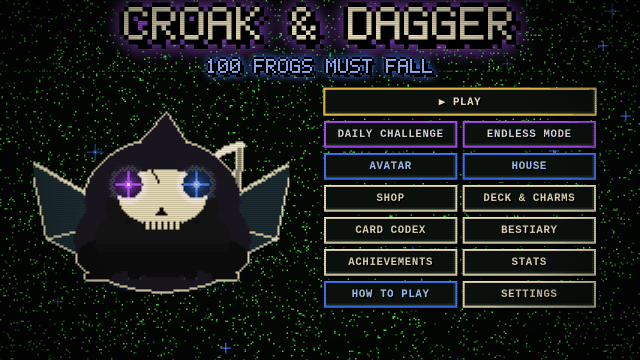
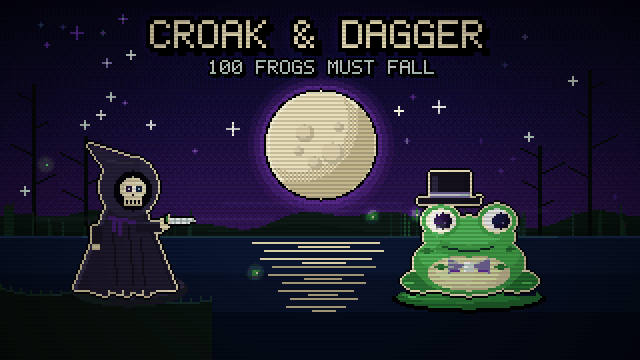
Animated pixel key art for Croak & Dagger; studio-wide copy made game-neutral
- New canvas key art (hooded hero vs. top-hatted frog under a full moon) replaces
  gameplay screenshots on the home featured panel, home game card and game page hero.
  Still frame by default; animates on hover, keyboard focus or tap (first tap wakes,
  second tap follows the link); prefers-reduced-motion shows one static awake frame.
- Game og.png and cover.png regenerated from the key art.
- Home/about/meta/OG copy now describes Lost Aura Games generally (retro-style
  pixel-art browser games) without Croak & Dagger-specific details.
- README documents the optional 'art' field in games.js.

diff --git a/assets/js/keyart-croak.js b/assets/js/keyart-croak.js
@@ -1,0 +1,168 @@
+/* Croak & Dagger key art: hand-placed pixel art drawn in <canvas>.
+   Still frame by default; comes alive on hover / keyboard focus / tap.
+   Usage: <canvas class="keyart" data-art="croak-and-dagger" width="320" height="180"></canvas>
+   Respects prefers-reduced-motion (shows a single "awake" frame instead of animating). */
+(function(){
+'use strict';
+var P=window.LAGPixel;
+var BONE='#e8dcb5',INK='#05040a';
+function mk(w,h){var c=document.createElement('canvas');c.width=w;c.height=h;var x=c.getContext('2d');x.imageSmoothingEnabled=false;return [c,x];}
+function rng(seed){return function(){seed|=0;seed=seed+0x6D2B79F5|0;var t=Math.imul(seed^seed>>>15,1|seed);t=t+Math.imul(t^t>>>7,61|t)^t;return((t^t>>>14)>>>0)/4294967296;};}
+function R(x,a,b,w,h,c){x.fillStyle=c;x.fillRect(a|0,b|0,w|0,h|0);}
+function ell(x,cx,cy,rx,ry,c){x.fillStyle=c;for(var y=-ry;y<=ry;y++){var w=Math.round(rx*Math.sqrt(Math.max(0,1-(y*y)/(ry*ry+.25))));x.fillRect(Math.round(cx-w),Math.round(cy+y),w*2+1,1);}}
+// outline any sprite: inner bone rim + outer ink rim
+function outlined(src,w,h,inner,outer){var o=mk(w+4,h+4),c=o[0],x=o[1];
+  var d=src.getContext('2d').getImageData(0,0,w,h).data;function A(i,j){return i>=0&&j>=0&&i<w&&j<h&&d[(j*w+i)*4+3]>0;}
+  for(var j=-2;j<h+2;j++)for(var i=-2;i<w+2;i++){if(A(i,j))continue;var n1=A(i-1,j)||A(i+1,j)||A(i,j-1)||A(i,j+1);
+    if(n1&&inner){x.fillStyle=inner;x.fillRect(i+2,j+2,1,1);continue;}
+    var n2=A(i-2,j)||A(i+2,j)||A(i,j-2)||A(i,j+2)||A(i-1,j-1)||A(i+1,j+1)||A(i-1,j+1)||A(i+1,j-1);if(n2&&outer){x.fillStyle=outer;x.fillRect(i+2,j+2,1,1);}}
+  x.drawImage(src,2,2);return c;}
+
+/* ---------- static layers (cached per size) ---------- */
+var CACHE={};
+function layers(W,H){var k=W+'x'+H;if(CACHE[k])return CACHE[k];var L={};var r=rng(77);
+  var hz=Math.round(H*.655);L.hz=hz;
+  // sky with ordered dither bands
+  var s=mk(W,H),sx=s[1];var bands=['#07061a','#0b0a26','#120c33','#1b0f40','#28124c','#341556'];
+  var bayer=[[0,8,2,10],[12,4,14,6],[3,11,1,9],[15,7,13,5]];
+  for(var y=0;y<hz;y++){var f=y/hz*(bands.length-1),b=Math.floor(f),fr=f-b;for(var xx=0;xx<W;xx++){var c=(fr*16>bayer[y&3][xx&3])?bands[Math.min(bands.length-1,b+1)]:bands[b];sx.fillStyle=c;sx.fillRect(xx,y,1,1);}}
+  // moon + halo
+  var mx=Math.round(W*.5),my=Math.round(H*.40),mr=Math.round(H*.15);L.moon={x:mx,y:my,r:mr};
+  for(var i=3;i>=1;i--){sx.globalAlpha=.07*i;ell(sx,mx,my,mr+12-i*3,mr+12-i*3,'#b04cff');}sx.globalAlpha=1;
+  ell(sx,mx,my,mr+1,mr+1,'#000');ell(sx,mx,my,mr,mr,'#e9dfba');
+  for(var yy=-mr;yy<=mr;yy++)for(var x2=-mr;x2<=mr;x2++){if(x2*x2+yy*yy>mr*mr)continue;var dd=Math.hypot(x2+mr*.45,yy+mr*.45)/mr;if(dd>1.15||(dd>.95&&((x2&1)^(yy&1)))){sx.fillStyle='#c4b78e';sx.fillRect(mx+x2,my+yy,1,1);}}
+  for(var yy2=-mr;yy2<=mr;yy2++)for(var x4=-mr;x4<=mr;x4++){var d3=x4*x4+yy2*yy2;if(d3<=mr*mr&&d3>(mr-1)*(mr-1)&&x4+yy2<0){sx.fillStyle='#fff6d6';sx.fillRect(mx+x4,my+yy2,1,1);}}
+  [[-8,-6,4],[6,4,5],[-3,9,3],[9,-9,2],[-11,3,2]].forEach(function(q){var s2=mr/26;ell(sx,mx+q[0]*s2,my+q[1]*s2,q[2]*s2,q[2]*s2,'#cdbf96');ell(sx,mx+q[0]*s2-1,my+q[1]*s2-1,Math.max(1,q[2]*s2-1),Math.max(1,q[2]*s2-1),'#ddd2aa');});
+  // far hills
+  for(var x3=0;x3<W;x3++){var hh=Math.round(8+Math.sin(x3*.045)*4+Math.sin(x3*.13+1)*2);R(sx,x3,hz-hh,1,hh,'#0c1a14');var h2=Math.round(4+Math.sin(x3*.08+2)*2);R(sx,x3,hz-h2,1,h2,'#0a1410');}
+  // dead trees
+  function tree(tx,th,dir){R(sx,tx,hz-th,2,th,'#050a08');var yb=hz-th;for(var k2=0;k2<4;k2++){var by=yb+Math.round(th*(.1+k2*.18)),dd=(k2%2?1:-1)*dir,len=6+Math.round(r()*8);for(var j=0;j<len;j++)R(sx,tx+(dd>0?2+j:-j),by-Math.floor(j/2),1,1,'#050a08');}}
+  tree(Math.round(W*.05),Math.round(H*.42),1);tree(Math.round(W*.13),Math.round(H*.28),-1);tree(Math.round(W*.92),Math.round(H*.46),-1);tree(Math.round(W*.84),Math.round(H*.25),1);
+  // reeds
+  for(var q2=0;q2<70;q2++){var rx=Math.round(r()*W);if(rx>W*.3&&rx<W*.6)continue;var rh=4+Math.round(r()*12);R(sx,rx,hz-rh,1,rh,r()<.5?'#0f2a1a':'#163a22');if(r()<.3)R(sx,rx,hz-rh-2,1,3,'#3a2a18');}
+  // water
+  for(var y4=hz;y4<H;y4++){var t2=(y4-hz)/(H-hz);R(sx,0,y4,W,1,t2<.3?'#0a1630':t2<.6?'#081127':'#050b1a');}
+  R(sx,0,hz,W,1,'#243a66');
+  // left bank where the hero stands
+  var bx=Math.round(W*.33);for(var x5=0;x5<bx;x5++){var by2=Math.round(H*.80+Math.sin(x5*.09)*2-(x5/bx)*-6);R(sx,x5,by2,1,H-by2,'#0b140f');R(sx,x5,by2,1,1,'#1f3a24');if((x5*7)%5===0)R(sx,x5,by2-2,1,2,'#163a22');}
+  // rock under hero
+  ell(sx,Math.round(W*.2),Math.round(H*.80),Math.round(W*.09),Math.round(H*.05),'#1a1f24');ell(sx,Math.round(W*.2),Math.round(H*.79),Math.round(W*.085),Math.round(H*.04),'#2a3038');R(sx,Math.round(W*.13),Math.round(H*.77),Math.round(W*.13),1,'#3d4550');
+  L.sky=s[0];
+  // title
+  var tw=P.textW('CROAK & DAGGER',2),t=mk(tw+16,34),tx=t[1];P.text(tx,'CROAK & DAGGER',6,4,2,BONE,{glow:'rgba(176,76,255,.9)'});
+  var sw=P.textW('100 FROGS MUST FALL',1);P.text(tx,'100 FROGS MUST FALL',Math.round((tw+16-sw)/2),24,1,'#9fc0ff',{glow:'rgba(58,123,255,.9)'});L.title=t[0];
+  // scanlines + vignette overlay
+  var o=mk(W,H),ox=o[1];for(var y6=0;y6<H;y6+=2){ox.fillStyle='rgba(0,0,0,.16)';ox.fillRect(0,y6,W,1);}
+  var g=ox.createRadialGradient(W/2,H/2,H*.35,W/2,H/2,W*.62);g.addColorStop(0,'rgba(0,0,0,0)');g.addColorStop(1,'rgba(0,0,0,.55)');ox.fillStyle=g;ox.fillRect(0,0,W,H);L.over=o[0];
+  // stars (positions)
+  L.stars=[];for(var n=0;n<46;n++){var px=Math.round(r()*W),py=Math.round(r()*hz*.85);var dm=Math.hypot(px-mx,py-my);if(dm<mr+14)continue;if(py<36&&px>W*.22&&px<W*.78)continue;L.stars.push({x:px,y:py,s:r()<.22?2:1,p:r()*6.28,c:r()<.5?'#9fc0ff':'#3a7bff'});}
+  L.flies=[];for(var m=0;m<14;m++)L.flies.push({x:r()*W,y:H*.45+r()*H*.42,p:r()*6.28,sp:.4+r()*.8});
+  L.frog=frogSprite(false);L.frogBlink=frogSprite(true);L.hero=heroSprite();
+  CACHE[k]=L;return L;}
+
+/* ---------- characters ---------- */
+// Dapper frog in a top hat and bow tie (drawn at scale k)
+var FK=1.3;
+function frogSprite(blink){var k=FK,S=function(v){return Math.round(v*k);};var W=S(54),H=S(48),o=mk(W,H),x=o[1];
+  function E(cx,cy,rx,ry,c){ell(x,S(cx),S(cy)+S(2),Math.max(1,S(rx)),Math.max(1,S(ry)),c);}function Q(a,b,w,h,c){R(x,S(a),S(b)+S(2),Math.max(1,S(w)),Math.max(1,S(h)),c);}
+  E(9,39,8,4,'#2f7a36');E(45,39,8,4,'#2f7a36');Q(2,40,4,1,'#5ac85a');Q(48,40,4,1,'#5ac85a');
+  E(27,32,21,12,'#3f9a45');E(27,29,19,8,'#4cae50');E(27,36,15,7,'#c9d98a');E(27,35,12,5,'#d8e6a0');
+  [[11,28],[42,27],[16,34],[39,34],[22,25],[34,25]].forEach(function(q){E(q[0],q[1],2,1,'#2b6e31');});
+  E(27,22,17,8,'#46a84c');E(27,20,14,5,'#55bb58');
+  E(16,16,7,6,'#46a84c');E(38,16,7,6,'#46a84c');
+  if(blink){Q(10,16,12,1.5,'#1d4a22');Q(32,16,12,1.5,'#1d4a22');}
+  else{E(16,16,5,4.4,'#f2eed8');E(38,16,5,4.4,'#f2eed8');E(17,16.5,3,3,'#120a20');E(39,16.5,3,3,'#120a20');Q(15,14,1,1,'#ffffff');Q(37,14,1,1,'#ffffff');R(x,S(18),S(17)+S(2),1,1,'#5a3a9a');R(x,S(40),S(17)+S(2),1,1,'#3a5ab0');}
+  for(var i=0;i<S(20);i++)R(x,S(17)+i,S(26)+S(2)+Math.round(Math.sin(i/S(20)*Math.PI)*2),1,1,'#173d1b');
+  // bow tie
+  x.fillStyle='#b04cff';x.beginPath();x.moveTo(S(19),S(31)+S(2));x.lineTo(S(26),S(34)+S(2));x.lineTo(S(19),S(37)+S(2));x.fill();x.beginPath();x.moveTo(S(35),S(31)+S(2));x.lineTo(S(28),S(34)+S(2));x.lineTo(S(35),S(37)+S(2));x.fill();
+  x.fillStyle='#7a2acc';x.fillRect(S(20),S(35)+S(2),S(4),1);x.fillRect(S(31),S(35)+S(2),S(4),1);Q(25,32,4,4,'#e2c2ff');
+  // top hat, tilted brim
+  Q(8,8,24,2,'#15121c');Q(12,-2,15,11,'#15121c');Q(12,5,15,2,'#b04cff');Q(13,-1,2,6,'#2e2840');Q(30,7,2,1,'#15121c');
+  return outlined(o[0],W,H,BONE,INK);}
+// Hooded reaper hero, 60x80
+function heroSprite(){var o=mk(60,80),x=o[1];
+  // cloak with folds
+  for(var y=34;y<76;y++){var hw=9+Math.round((y-34)*.4);R(x,28-hw,y,hw*2+1,1,'#231c33');R(x,28-hw,y,2,1,'#3a2f52');R(x,28+hw-1,y,1,1,'#17121f');}
+  [[22,46,28],[30,44,30],[36,50,24]].forEach(function(f){for(var y=f[1];y<f[1]+f[2]&&y<76;y++)R(x,f[0]+Math.round((y-f[1])*.08),y,1,1,'#17121f');});
+  for(var i=0;i<10;i++)R(x,11+i*3.4,75,3,2+(i%3),'#231c33');
+  // purple sash
+  for(var j=0;j<14;j++)R(x,20+j,39+Math.round(j*.15),1,2,'#4a2470');R(x,22,41,2,6,'#4a2470');R(x,25,41,2,8,'#4a2470');
+  // forward arm
+  R(x,34,42,13,5,'#1a1626');R(x,34,42,13,1,'#2e2640');R(x,46,41,4,4,BONE);
+  // back arm
+  R(x,12,44,5,10,'#1a1626');R(x,12,53,4,3,BONE);
+  // hood
+  ell(x,30,24,14,15,'#2e2640');x.fillStyle='#2e2640';x.beginPath();x.moveTo(19,16);x.lineTo(36,12);x.lineTo(10,3);x.fill();
+  for(var k=0;k<14;k++)R(x,19+k,11+Math.round(k*.1),1,1,'#3d3354');
+  ell(x,32,26,9,10,'#05040a');
+  // skull
+  ell(x,32,25,6,6,'#e8dcb5');R(x,28,29,9,4,'#e8dcb5');R(x,27,23,1,3,'#c8b890');
+  R(x,29,24,3,3,'#05040a');R(x,34,24,3,3,'#05040a');R(x,32,28,1,1,'#05040a');
+  for(var t=0;t<4;t++)R(x,29+t*2,31,1,2,'#05040a');R(x,28,33,9,1,'#c8b890');
+  return outlined(o[0],60,80,BONE,INK);}
+
+/* ---------- frame renderer ---------- */
+function draw(cv,t,awake,opts){var W=cv.width,H=cv.height,x=cv.getContext('2d');x.imageSmoothingEnabled=false;var L=layers(W,H),hz=L.hz,m=L.moon;
+  x.drawImage(L.sky,0,0);
+  // stars
+  for(var i=0;i<L.stars.length;i++){var s=L.stars[i];var a=awake?(Math.sin(t*2.2+s.p)+1)/2:.55+.4*Math.sin(s.p);if(a<.18)continue;x.globalAlpha=a;x.fillStyle=a>.8?'#ffffff':s.c;var l=s.s+(a>.75?1:0);x.fillRect(s.x-l,s.y,l*2+1,1);x.fillRect(s.x,s.y-l,1,l*2+1);}x.globalAlpha=1;
+  // fog band drifting
+  var fo=awake?(t*6)%W:0;x.fillStyle='rgba(160,150,200,.06)';for(var k=0;k<3;k++){x.fillRect(((k*137+fo)%(W+120))-120,hz-6-k*4,120,3);x.fillRect(((k*211+fo*1.4+60)%(W+160))-160,hz-14-k*3,90,2);}
+  // moon reflection
+  for(var j=0;j<9;j++){var ry=hz+3+j*4;if(ry>H*.9)break;var rw=Math.round((m.r*1.2-j*2.2)*(1+(awake?.15*Math.sin(t*3+j):0)));if(rw<2)continue;var ox=Math.round(awake?Math.sin(t*2+j*1.3)*3:(j%2?2:-2));x.fillStyle=j<3?'#d8cc9f':'#9f9572';x.fillRect(m.x-rw+ox,ry,rw*2,1);if(j%2===0)x.fillRect(m.x-Math.round(rw*.4)-ox,ry+2,Math.round(rw*.8),1);}
+  // lily pad + frog
+  var fx=Math.round(W*.73),fy=Math.round(H*.81);
+  // ripples
+  if(awake){for(var q=0;q<3;q++){var ph=((t*.7+q/3)%1);var rr=10+ph*40;x.globalAlpha=(1-ph)*.6;x.strokeStyle='#5a7ac0';x.lineWidth=1;x.beginPath();x.ellipse(fx,fy+4,rr,rr*.22,0,0,6.283);x.stroke();}x.globalAlpha=1;}
+  ell(x,fx,fy+3,38,7,'#000');ell(x,fx,fy+2,36,6,'#1f6a2a');ell(x,fx-2,fy+1,31,4,'#2a8a36');R(x,fx+18,fy-1,16,3,'#081127');R(x,fx-30,fy+2,4,1,'#3cff5a');
+  ell(x,fx-28,fy-1,3,2,'#000');ell(x,fx-28,fy-1,2,1,'#e04cff');R(x,fx-28,fy-3,1,1,'#ffd24a');
+  var croak=awake?Math.max(0,Math.sin(t*3.2)):0;var bob=awake?Math.round(Math.sin(t*3.2)*1):0;
+  var blink=awake&&((t*.55)%1)>.93;var fs=blink?L.frogBlink:L.frog;var fW=fs.width,fH=fs.height;var fdx=fx-Math.round(fW/2),fdy=fy-fH+4-bob;
+  x.drawImage(fs,fdx,fdy);
+  // throat sac (croak)
+  if(croak>.15){var sr=Math.round(3+croak*8);var sy0=fdy+Math.round(38*FK);ell(x,fx,sy0,sr+1,Math.round(sr*.7)+1,'#000');ell(x,fx,sy0,sr,Math.round(sr*.7),'#f0b8d8');ell(x,fx-2,sy0-1-Math.round(sr*.3),Math.max(1,sr-4),1,'#fff');
+    if(croak>.8){P.text(x,'CROAK!',fx+20,fdy+6,1,'#ffd24a',{glow:'rgba(255,210,74,.7)'});}}
+  // frog eye glow
+  if(!blink){var gpow=awake?.55+.45*Math.sin(t*4):.45;glow(x,fdx+Math.round(17*FK),fdy+Math.round(19*FK),'176,76,255',gpow*.7,7);glow(x,fdx+Math.round(39*FK),fdy+Math.round(19*FK),'58,123,255',gpow*.7,7);}
+  // hero
+  var hx=Math.round(W*.2),hy=Math.round(H*.82);var hs=L.hero;var hb=awake?Math.round(Math.sin(t*2)*1):0;var hdx=hx-32,hdy=hy-hs.height+3+hb;
+  // cloak wind tails
+  if(awake){for(var w=0;w<5;w++){var wx=hdx+6-w*3-Math.round((Math.sin(t*5+w)+1)*2),wy=hdy+56+w*4;R(x,wx,wy,4,1,'#231c33');}}
+  x.drawImage(hs,hdx,hdy);
+  // hero eyes
+  var ep=awake?.55+.45*Math.sin(t*5+1):.4;R(x,hdx+32,hdy+27,1,1,'#e2b0ff');R(x,hdx+37,hdy+27,1,1,'#bcd4ff');glow(x,hdx+32.5,hdy+27.5,'176,76,255',ep,4);glow(x,hdx+37.5,hdy+27.5,'58,123,255',ep,4);
+  // dagger
+  var dx0=hdx+52,dy0=hdy+41;R(x,dx0-2,dy0-1,2,5,'#000');R(x,dx0-1,dy0,1,3,'#7a5a2a');R(x,dx0,dy0-2,1,7,'#000');R(x,dx0,dy0-1,1,5,BONE);
+  for(var b=1;b<=13;b++){var bw=b<11?3:b<13?2:1;R(x,dx0+b,dy0+2-Math.floor(bw/2)-1,1,bw+2,'#000');R(x,dx0+b,dy0+2-Math.floor(bw/2),1,bw,b%3?'#cfd6e6':'#a8b0c4');}
+  if(awake){var gp=(t*1.1)%2;if(gp<1){var gx=dx0+1+Math.round(gp*12);R(x,gx,dy0,1,4,'#ffffff');R(x,gx-1,dy0+1,1,2,'#ffffff');if(gp>.85){var sx=dx0+14,sy=dy0+2;R(x,sx-3,sy,7,1,'#fff');R(x,sx,sy-3,1,7,'#fff');}}}
+  // fireflies
+  for(var f=0;f<L.flies.length;f++){var fl=L.flies[f];var px2,py2,on;if(awake){px2=(fl.x+Math.sin(t*fl.sp+fl.p)*14+t*4*fl.sp)%W;py2=fl.y+Math.cos(t*fl.sp*1.3+fl.p)*8;on=(Math.sin(t*3*fl.sp+fl.p)+1)/2;}else{if(f%3)continue;px2=fl.x;py2=fl.y;on=.6;}
+    if(on<.25)continue;glow(x,px2,py2,'200,255,110',on*.8,5);x.fillStyle=on>.7?'#f6ffb0':'#c8ff6a';x.fillRect(Math.round(px2),Math.round(py2),1,1);}
+  // title with shimmer
+  var T=L.title,tdx=Math.round((W-T.width)/2),tdy=Math.round(H*.035);x.drawImage(T,tdx,tdy);
+  if(awake&&!(opts&&opts.still)){var sh=(t*.6)%1.6;if(sh<1){var tmp=shim(T,sh);x.drawImage(tmp,tdx,tdy);}}
+  x.drawImage(L.over,0,0);}
+var SH=null;function shim(T,p){if(!SH||SH[0].width!==T.width)SH=mk(T.width,T.height);var c=SH[0],x=SH[1];x.clearRect(0,0,c.width,c.height);x.globalCompositeOperation='source-over';x.drawImage(T,0,0);x.globalCompositeOperation='source-in';
+  var cx=-30+p*(c.width+60);var g=x.createLinearGradient(cx-14,0,cx+14,c.height);g.addColorStop(0,'rgba(255,255,255,0)');g.addColorStop(.5,'rgba(255,255,255,.85)');g.addColorStop(1,'rgba(255,255,255,0)');x.fillStyle=g;x.fillRect(0,0,c.width,c.height);x.globalCompositeOperation='source-over';return c;}
+function glow(x,cx,cy,rgb,a,r){var g=x.createRadialGradient(cx,cy,0,cx,cy,r);g.addColorStop(0,'rgba('+rgb+','+(a*.75)+')');g.addColorStop(1,'rgba('+rgb+',0)');x.globalCompositeOperation='lighter';x.fillStyle=g;x.fillRect(cx-r,cy-r,r*2,r*2);x.globalCompositeOperation='source-over';}
+
+/* ---------- interaction ---------- */
+var reduce=window.matchMedia&&window.matchMedia('(prefers-reduced-motion: reduce)');
+function mount(cv){if(cv._ka)return;cv._ka=1;var trig=cv.closest('[data-keyart-trigger]')||cv.parentNode;var raf=0,t0=0,active=false,last=0;
+  draw(cv,0,false);
+  function frame(ms){if(!active)return;raf=requestAnimationFrame(frame);if(ms-last<33)return;last=ms;draw(cv,(ms-t0)/1000+0.4,true);}
+  function on(){if(active)return;active=true;trig.classList.add('awake');if(reduce&&reduce.matches){draw(cv,.49,true,{still:1});return;}t0=performance.now();raf=requestAnimationFrame(frame);}
+  function off(){if(!active)return;active=false;trig.classList.remove('awake');cancelAnimationFrame(raf);draw(cv,0,false);}
+  trig.addEventListener('mouseenter',on);trig.addEventListener('mouseleave',off);
+  trig.addEventListener('focusin',on);trig.addEventListener('focusout',function(e){if(!trig.contains(e.relatedTarget))off();});
+  // touch: first tap wakes the art (and doesn't follow a link); second tap follows it.
+  var touchWake=false;
+  var zone=cv.parentNode;trig.addEventListener('pointerdown',function(e){touchWake=false;if((e.pointerType==='touch'||e.pointerType==='pen')&&zone.contains(e.target)){touchWake=!active;if(!active)on();}});
+  trig.addEventListener('click',function(e){if(touchWake){touchWake=false;e.preventDefault();}},true);
+  document.addEventListener('pointerdown',function(e){if(active&&!trig.contains(e.target)&&e.pointerType!=='mouse')off();});
+  trig.addEventListener('keydown',function(e){if((e.key===' '||e.key==='Enter')&&trig===e.target&&trig.tagName!=='A'){e.preventDefault();active?off():on();}});
+  cv._on=on;cv._off=off;}
+function mountAll(root){[].slice.call((root||document).querySelectorAll('canvas.keyart[data-art="croak-and-dagger"]')).forEach(mount);}
+window.LAGKeyArt={draw:draw,mount:mount,mountAll:mountAll,layers:layers};
+if(document.readyState!=='loading')mountAll();else document.addEventListener('DOMContentLoaded',function(){mountAll();});
+})();

diff --git a/index.html b/index.html
@@ -4,22 +4,22 @@
 <meta charset="utf-8">
 <meta name="viewport" content="width=device-width, initial-scale=1">
 <title>Lost Aura Games - Retro pixel games you can play in your browser</title>
-<meta name="description" content="Lost Aura Games makes small, glowing retro pixel games that run right in your browser. Play Croak &amp; Dagger, a slapstick frog-battling deckbuilder, free.">
+<meta name="description" content="Lost Aura Games makes retro-style pixel-art games you can play right in your browser. No downloads, no installs: just press Play. Now playing: Croak &amp; Dagger.">
 <link rel="canonical" href="https://lostauragames.com/">
 <meta name="theme-color" content="#020403">
 <meta name="color-scheme" content="dark">
 <meta property="og:type" content="website">
 <meta property="og:site_name" content="Lost Aura Games">
 <meta property="og:title" content="Lost Aura Games - Retro pixel games you can play in your browser">
-<meta property="og:description" content="Lost Aura Games makes small, glowing retro pixel games that run right in your browser. Play Croak &amp; Dagger, a slapstick frog-battling deckbuilder, free.">
+<meta property="og:description" content="Lost Aura Games makes retro-style pixel-art games you can play right in your browser. No downloads, no installs: just press Play. Now playing: Croak &amp; Dagger.">
 <meta property="og:url" content="https://lostauragames.com/">
 <meta property="og:image" content="https://lostauragames.com/assets/img/og.png">
 <meta property="og:image:width" content="1200">
 <meta property="og:image:height" content="630">
-<meta property="og:image:alt" content="Lost Aura Games pixel logo on a starry CRT background">
+<meta property="og:image:alt" content="Lost Aura Games pixel-art logo with the tagline Lost light, found in pixels.">
 <meta name="twitter:card" content="summary_large_image">
 <meta name="twitter:title" content="Lost Aura Games - Retro pixel games you can play in your browser">
-<meta name="twitter:description" content="Lost Aura Games makes small, glowing retro pixel games that run right in your browser. Play Croak &amp; Dagger, a slapstick frog-battling deckbuilder, free.">
+<meta name="twitter:description" content="Lost Aura Games makes retro-style pixel-art games you can play right in your browser. No downloads, no installs: just press Play. Now playing: Croak &amp; Dagger.">
 <meta name="twitter:image" content="https://lostauragames.com/assets/img/og.png">
 <link rel="icon" href="favicon.ico" sizes="any">
 <link rel="icon" type="image/png" sizes="32x32" href="assets/img/favicon-32.png">
@@ -41,7 +41,7 @@
  <section class="hero wrap" aria-labelledby="site-title">
   <h1 id="site-title"><canvas class="pixel-logo" data-size="9" data-fluid aria-hidden="true"></canvas><span class="sr-only">Lost Aura Games</span></h1>
   <p class="tagline">Lost light, found in pixels.<span class="blink" aria-hidden="true">_</span></p>
-  <p class="lead">Small retro games with big glowing eyes. No downloads, no installs: press Play and you're in.</p>
+  <p class="lead">Retro-style pixel-art games you can play right in your browser. No downloads, no installs: press Play and you're in.</p>
   <div class="actions"><a class="btn gold big" href="games/croak-and-dagger/">&#9654; Play Croak &amp; Dagger</a><a class="btn" href="#games">All games</a></div>
  </section>
 
@@ -63,7 +63,7 @@
    <canvas class="pixel-emblem" data-size="4" aria-hidden="true" width="128" height="128"></canvas>
    <div>
     <h2 id="about-h">About the <span class="glow">Studio</span></h2>
-    <p>Lost Aura Games is a tiny arcade of handmade pixel games. Every game here runs in your browser and works on desktop and mobile, and your progress saves on your device. Expect CRT static, starry skies, chunky bone-white outlines and a lot of glowing eyes.</p>
+    <p>Lost Aura Games is a small studio making retro-style, pixel-art games. Every game here runs in your browser on desktop and mobile, and your progress saves on your device. Expect handcrafted pixels, chiptune sound and games that are quick to pick up and hard to put down.</p>
     <div class="actions"><a class="btn" href="about.html">More about us</a></div>
    </div>
   </div>
@@ -77,6 +77,7 @@
 </footer>
 <script src="assets/js/pixel.js"></script>
 <script src="assets/js/games.js"></script>
+<script src="assets/js/keyart-croak.js"></script>
 <script src="assets/js/site.js"></script>
 </body>
 </html>

diff --git a/assets/js/site.js b/assets/js/site.js
@@ -23,10 +23,11 @@ if(P&&logos.length){drawLogos(0);window.addEventListener('resize',function(){log
 
 // game grid + featured
 var games=window.LAG_GAMES||[];
+function artCanvas(g){return '<canvas class="keyart" data-art="'+esc(g.art)+'" width="320" height="180" role="img" aria-label="'+esc(g.artAlt||g.title)+'"></canvas><span class="ka-hint" aria-hidden="true">'+(window.matchMedia&&matchMedia('(hover: none)').matches?'Tap to wake':'Hover to wake')+'</span>';}
 function card(g){var play=url(g.play),info=url(g.info);var main=info||play;
-  var h='<article class="game-card">'+
+  var h='<article class="game-card"'+(g.art?' data-keyart-trigger':'')+'>'+
    (main?'<a class="thumb" href="'+esc(main)+'" tabindex="-1" aria-hidden="true">':'<div class="thumb">')+
-   (g.image?'<img src="'+esc(url(g.image))+'" alt="" loading="lazy" width="640" height="360">':'<div class="thumb-empty">?</div>')+
+   (g.art?artCanvas(g):g.image?'<img src="'+esc(url(g.image))+'" alt="" loading="lazy" width="640" height="360">':'<div class="thumb-empty">?</div>')+
    (main?'</a>':'</div>')+
    '<div class="body"><span class="badge">'+esc(g.status||'')+'</span>'+
    '<h3>'+(main?'<a href="'+esc(main)+'">'+esc(g.title)+'</a>':esc(g.title))+'</h3>'+
@@ -40,8 +41,9 @@ if(grid){grid.innerHTML=games.map(card).join('')+'<article class="game-card soon
   [].slice.call(grid.querySelectorAll('canvas.pixel-emblem')).forEach(function(c){var s=3;c.width=c.height=96;P.emblem(c.getContext('2d'),0,0,s,1);});}
 var feat=document.getElementById('featured');
 if(feat){var f=games.filter(function(g){return g.featured;})[0]||games[0];
-  if(f){feat.innerHTML='<div class="feat-img">'+(f.image?'<img src="'+esc(url(f.image))+'" alt="Screenshot of '+esc(f.title)+'" width="640" height="360">':'')+'</div>'+
+  if(f){if(f.art)feat.setAttribute('data-keyart-trigger','');feat.innerHTML='<div class="feat-img'+(f.art?' ka-frame':'')+'">'+(f.art?artCanvas(f):f.image?'<img src="'+esc(url(f.image))+'" alt="'+esc(f.title)+'" width="640" height="360">':'')+'</div>'+
    '<div class="feat-body"><p class="kicker">Featured game</p><h2 id="featured-title">'+esc(f.title)+'</h2>'+(f.subtitle?'<p class="sub">'+esc(f.subtitle)+'</p>':'')+
    '<p>'+esc(f.blurb)+'</p>'+(f.tags&&f.tags.length?'<ul class="tags">'+f.tags.map(function(t){return '<li>'+esc(t)+'</li>';}).join('')+'</ul>':'')+
    '<div class="actions">'+(f.play?'<a class="btn gold big" href="'+esc(url(f.play))+'">&#9654; Play '+esc(f.title)+'</a>':'')+(f.info?'<a class="btn" href="'+esc(url(f.info))+'">Game details</a>':'')+'</div></div>';}}
+if(window.LAGKeyArt)window.LAGKeyArt.mountAll();
 })();

diff --git a/games/croak-and-dagger.html b/games/croak-and-dagger.html
@@ -16,7 +16,7 @@
 <meta property="og:image" content="https://lostauragames.com/assets/img/games/croak-and-dagger/og.png">
 <meta property="og:image:width" content="1200">
 <meta property="og:image:height" content="630">
-<meta property="og:image:alt" content="Lost Aura Games pixel logo on a starry CRT background">
+<meta property="og:image:alt" content="Croak &amp; Dagger key art: a hooded hero faces a top-hatted frog under a full moon">
 <meta name="twitter:card" content="summary_large_image">
 <meta name="twitter:title" content="Croak &amp; Dagger - 100 Frogs Must Fall | Lost Aura Games">
 <meta name="twitter:description" content="Croak &amp; Dagger is a free slapstick pixel deckbuilder. Melt frogs with lasers, crush them with a giant foot and outwit 100 dressed-up frogs. Play in your browser.">
@@ -38,8 +38,8 @@
  </div>
 </header>
 <main id="main" class="wrap">
- <section aria-labelledby="g-h" class="featured panel purple" style="margin-top:34px">
-  <div class="feat-img"><img src="../assets/img/games/croak-and-dagger/cover.png" alt="Croak and Dagger title screen" width="640" height="360"></div>
+ <section aria-labelledby="g-h" class="featured panel purple" style="margin-top:34px" data-keyart-trigger>
+  <div class="feat-img ka-frame"><canvas class="keyart" data-art="croak-and-dagger" width="320" height="180" role="img" aria-label="Croak &amp; Dagger key art: a hooded hero with a dagger faces a top-hatted frog on a lily pad under a full moon"></canvas><span class="ka-hint" aria-hidden="true">Hover or tap to wake</span><noscript><img src="../assets/img/games/croak-and-dagger/cover.png" alt="Croak &amp; Dagger key art" width="640" height="360"></noscript></div>
   <div class="feat-body">
    <p class="kicker">Card battler &middot; Deckbuilder &middot; Free</p>
    <h1 id="g-h" style="font-size:clamp(28px,4.5vw,42px)">Croak &amp; Dagger</h1>
@@ -96,6 +96,7 @@
 </footer>
 <script src="../assets/js/pixel.js"></script>
 <script src="../assets/js/games.js"></script>
+<script src="../assets/js/keyart-croak.js"></script>
 <script src="../assets/js/site.js"></script>
 </body>
 </html>

diff --git a/about.html b/about.html
@@ -16,7 +16,7 @@
 <meta property="og:image" content="https://lostauragames.com/assets/img/og.png">
 <meta property="og:image:width" content="1200">
 <meta property="og:image:height" content="630">
-<meta property="og:image:alt" content="Lost Aura Games pixel logo on a starry CRT background">
+<meta property="og:image:alt" content="Lost Aura Games pixel-art logo with the tagline Lost light, found in pixels.">
 <meta name="twitter:card" content="summary_large_image">
 <meta name="twitter:title" content="About - Lost Aura Games">
 <meta name="twitter:description" content="About Lost Aura Games: a small arcade of handmade retro pixel games that play in your browser on desktop and mobile.">
@@ -45,7 +45,7 @@
  </section>
  <section class="features" aria-label="What to expect">
   <div class="panel"><h3>&#9654; Press Play</h3><p>Every game runs right here in your browser. You don't need to download, install or sign up for anything.</p></div>
-  <div class="panel"><h3>&#9733; Pixel Made</h3><p>The art and sound are made with code, pixel by pixel: CRT static, twinkling stars and chiptune music.</p></div>
+  <div class="panel"><h3>&#9733; Pixel Made</h3><p>Art and sound are crafted pixel by pixel and note by note, inspired by classic consoles and arcade cabinets.</p></div>
   <div class="panel"><h3>&#9873; Saves Stay With You</h3><p>Progress is saved in your browser on your device. Some games let you export a save code to move it somewhere else.</p></div>
   <div class="panel"><h3>&#9737; Any Screen</h3><p>Works with a mouse, touch or keyboard, on a big monitor or a small phone (landscape is best for phones).</p></div>
  </section>

diff --git a/assets/css/site.css b/assets/css/site.css
@@ -116,3 +116,11 @@ ul.pix li:before{content:"";position:absolute;left:4px;top:.55em;width:8px;heigh
 .features.three{grid-template-columns:repeat(auto-fit,minmax(300px,1fr))}
 .shots{grid-template-columns:repeat(auto-fit,minmax(320px,1fr))}
 @media (max-width:520px){.features.three,.shots{grid-template-columns:1fr}}
+/* animated key art */
+canvas.keyart{display:block;width:100%;height:auto;aspect-ratio:16/9;image-rendering:pixelated;image-rendering:crisp-edges;background:#07061a}
+.game-card .thumb,.feat-img{position:relative}
+.ka-frame{border:var(--px) solid #000;box-shadow:0 0 0 3px var(--bone),6px 6px 0 3px #000;line-height:0}
+.ka-hint{position:absolute;right:8px;bottom:8px;font-size:12px;line-height:1;letter-spacing:1px;text-transform:uppercase;color:var(--bone);background:rgba(0,0,0,.7);border:2px solid var(--bone2);padding:4px 7px;pointer-events:none;transition:opacity .2s}
+.awake .ka-hint{opacity:0}
+.awake .ka-frame,.game-card.awake{box-shadow:0 0 0 3px var(--purple),6px 6px 0 3px #000,0 0 24px rgba(176,76,255,.55)}
+.game-card.awake{border-color:var(--purple)}

diff --git a/assets/js/games.js b/assets/js/games.js
@@ -14,7 +14,9 @@ window.LAG_GAMES = [
     status: "Play now",                          // e.g. "Play now", "Coming soon", "Demo"
     play: "games/croak-and-dagger/",             // where the Play button goes (leave "" if not playable yet)
     info: "games/croak-and-dagger.html",         // the game's info page (optional, "" for none)
-    image: "assets/img/games/croak-and-dagger/cover-battle.png", // card picture, 16:9 works best
+    image: "assets/img/games/croak-and-dagger/cover.png", // card picture, 16:9 works best (used if there is no animated art)
+    art: "croak-and-dagger",                     // optional animated pixel key art (assets/js/keyart-croak.js); remove to use the image
+    artAlt: "Croak & Dagger key art: a hooded hero with a dagger faces a top-hatted frog on a lily pad under a full moon",
     tags: ["Single player", "Browser", "Mouse / Touch / Keyboard"],
     featured: true                               // true = shown in the big "Featured" box on the home page
   }

diff --git a/404.html b/404.html
@@ -17,7 +17,7 @@
 <meta property="og:image" content="https://lostauragames.com/assets/img/og.png">
 <meta property="og:image:width" content="1200">
 <meta property="og:image:height" content="630">
-<meta property="og:image:alt" content="Lost Aura Games pixel logo on a starry CRT background">
+<meta property="og:image:alt" content="Lost Aura Games pixel-art logo with the tagline Lost light, found in pixels.">
 <meta name="twitter:card" content="summary_large_image">
 <meta name="twitter:title" content="Page not found - Lost Aura Games">
 <meta name="twitter:description" content="This page wandered off into the fog.">

diff --git a/README.md b/README.md
@@ -16,7 +16,8 @@ games/croak-and-dagger/        The game itself (one self-contained index.html)
 assets/css/site.css            All the site styling
 assets/js/games.js             >>> THE GAME LIST <<< (the home page grid is built from this)
 assets/js/site.js              Draws the background and logos, and builds the game grid
-assets/js/pixel.js             Pixel font, logo and emblem drawing, CRT/star background
+assets/js/pixel.js             Pixel font, logo and emblem drawing, animated background
+assets/js/keyart-croak.js      Animated pixel key art for Croak & Dagger (wakes up on hover/focus/tap)
 assets/img/                    Favicons, social share image (og.png), game pictures
 CNAME                          Tells GitHub Pages to use lostauragames.com
 .nojekyll                      Tells GitHub Pages to serve the files as-is
@@ -54,6 +55,7 @@ You can also double-click `index.html`. Use the local server to be sure everythi
      play: "games/my-new-game/",         // leave "" if it isn't playable yet
      info: "",                           // optional info page, e.g. "games/my-new-game.html"
      image: "assets/img/games/my-new-game/cover.png",
+     // art: "my-new-game",               // optional: an animated canvas key art script instead of the picture
      tags: ["Single player", "Browser"],
      featured: false                     // set true to show it in the big Featured box instead
    }
@@ -63,6 +65,9 @@ You can also double-click `index.html`. Use the local server to be sure everythi
    and change the text, screenshots and Play link. Then put that path in `info` in step 3.
 5. **(Optional) Tell search engines.** Add the new pages to `sitemap.xml`, copying an existing `<url>` line.
 6. Preview it locally (see above), then commit and push.
+
+Croak & Dagger's cover is animated pixel key art, drawn in code by `assets/js/keyart-croak.js` (`art: "croak-and-dagger"`).
+It stays still until a visitor hovers, focuses or taps it. A new game can use a normal picture instead: just leave out `art`.
 
 Only one game should have `featured: true`. If none do, the first game in the list is featured.
 
